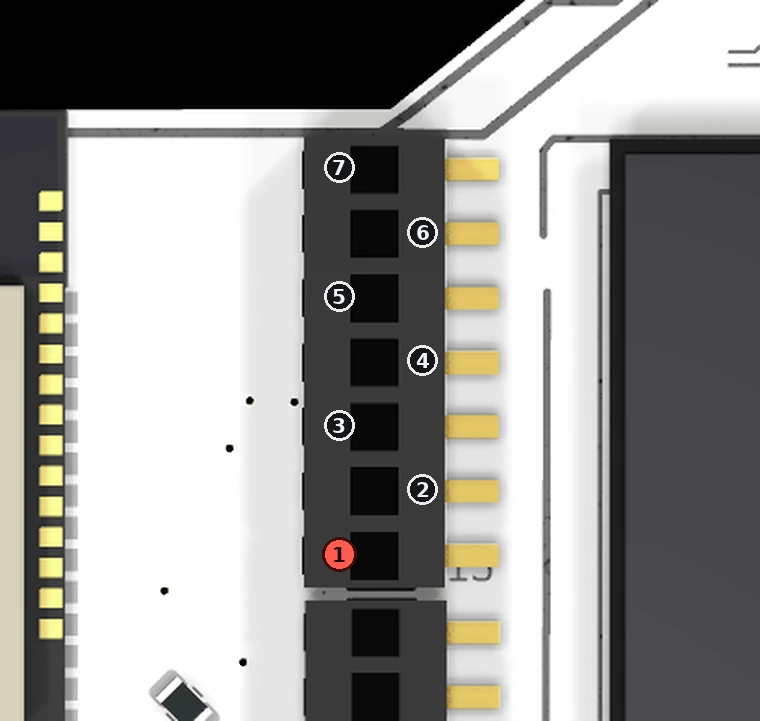
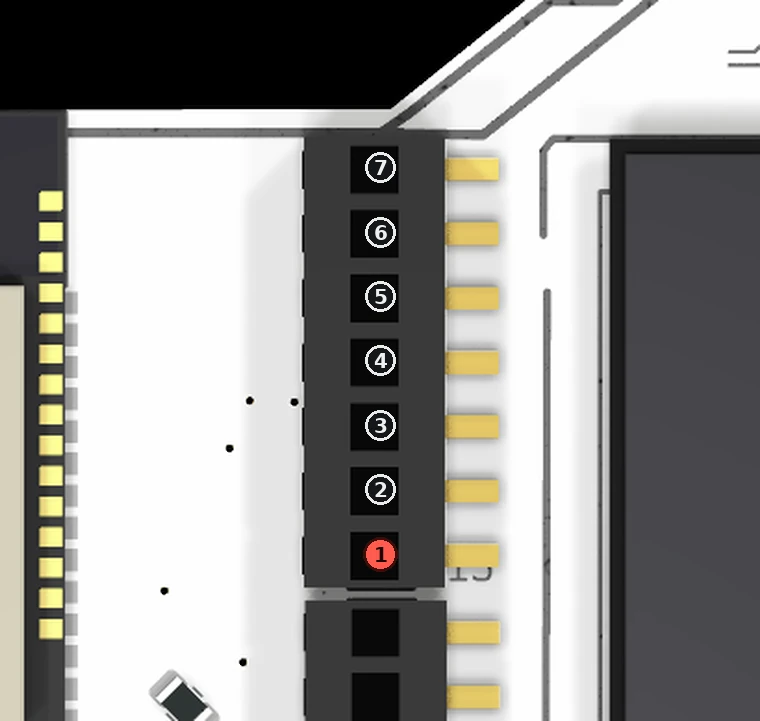
pin markers: number the socket holes rather than the staggered solder pads; anchor pin 1 to the silkscreen label; brighter matrix; bare larger thumbnails

diff --git a/compatriot/embedded.html b/compatriot/embedded.html
@@ -240,10 +240,10 @@
   <circle class="bm-pin1" data-ref="H1" cx="706" cy="621" r="7"/>
   <circle class="bm-pin1" data-ref="U2" cx="1270" cy="766" r="7"/>
   <circle class="bm-pin1" data-ref="H2" cx="666" cy="564" r="7"/>
-  <circle class="bm-pin1" data-ref="U14" cx="929" cy="538" r="7"/>
+  <circle class="bm-pin1" data-ref="U14" cx="947" cy="538" r="7"/>
   <circle class="bm-pin1" data-ref="H3" cx="585" cy="562" r="7"/>
   <circle class="bm-pin1" data-ref="U5" cx="1521" cy="766" r="7"/>
-  <circle class="bm-pin1" data-ref="U13" cx="929" cy="346" r="7"/>
+  <circle class="bm-pin1" data-ref="U13" cx="946" cy="346" r="7"/>
   <a class="bm-hot" href="#bm-U13" data-ref="U13" role="button" aria-label="Show pinout for U13 — console UART"><circle cx="1068" cy="266" r="25"/></a>
   <a class="bm-hot" href="#bm-U14" data-ref="U14" role="button" aria-label="Show pinout for U14 — SPI / I²C bus"><circle cx="1068" cy="458" r="25"/></a>
   <a class="bm-hot" href="#bm-H3" data-ref="H3" role="button" aria-label="Show pinout for H3 — STM32 SWD"><circle cx="500" cy="591" r="25"/></a>
@@ -281,7 +281,7 @@
     <figure class="bm-zoom">
       <img src="../assets/board/zoom/H1.webp" width="760" height="547" loading="lazy" decoding="async"
            alt="Close-up of H1 on the board with pin 1 marked">
-      <figcaption>Every pin is numbered. Pin&nbsp;1 is the red one.</figcaption>
+      <figcaption>Every pin is numbered; pin&nbsp;1 is red. Pin&nbsp;1 is the corner next to the <b>H1</b> label printed on the board.</figcaption>
     </figure>
     <table class="bm-pins"><thead><tr><th>Pin</th><th>Function</th><th>Net</th></tr></thead><tbody><tr class="is-pin1"><td class="bm-pn">1</td><td class="bm-fn">—</td><td class="bm-net">STM32_TX</td></tr><tr><td class="bm-pn">2</td><td class="bm-fn">—</td><td class="bm-net">RX_ESP32</td></tr><tr><td class="bm-pn">3</td><td class="bm-fn">—</td><td class="bm-net">STM32_RX</td></tr><tr><td class="bm-pn">4</td><td class="bm-fn">—</td><td class="bm-net">TX_ESP32</td></tr></tbody></table>
   </div>
@@ -293,7 +293,7 @@
     <figure class="bm-zoom">
       <img src="../assets/board/zoom/U2.webp" width="760" height="547" loading="lazy" decoding="async"
            alt="Close-up of U2 on the board with pin 1 marked">
-      <figcaption>Every pin is numbered. Pin&nbsp;1 is the red one.</figcaption>
+      <figcaption>Every pin is numbered; pin&nbsp;1 is red. Pin&nbsp;1 is the corner next to the <b>U2</b> label printed on the board.</figcaption>
     </figure>
     <table class="bm-pins"><thead><tr><th>Pin</th><th>Function</th><th>Net</th></tr></thead><tbody><tr class="is-pin1"><td class="bm-pn">1</td><td class="bm-fn">NC</td><td class="bm-net"><i>not connected</i></td></tr><tr><td class="bm-pn">2</td><td class="bm-fn">NC</td><td class="bm-net"><i>not connected</i></td></tr><tr><td class="bm-pn">3</td><td class="bm-fn">NC</td><td class="bm-net"><i>not connected</i></td></tr><tr><td class="bm-pn">4</td><td class="bm-fn">VSS</td><td class="bm-net">P,GND</td></tr><tr><td class="bm-pn">5</td><td class="bm-fn">SDA</td><td class="bm-net">I2C_SDA</td></tr><tr><td class="bm-pn">6</td><td class="bm-fn">SCL</td><td class="bm-net">I2C_SCL</td></tr><tr><td class="bm-pn">7</td><td class="bm-fn"><span class="bm-ovl">WC</span></td><td class="bm-net">EEPROM_WP</td></tr><tr><td class="bm-pn">8</td><td class="bm-fn">VCC</td><td class="bm-net">3V3_ESP32</td></tr></tbody></table>
   </div>
@@ -305,7 +305,7 @@
     <figure class="bm-zoom">
       <img src="../assets/board/zoom/H2.webp" width="760" height="545" loading="lazy" decoding="async"
            alt="Close-up of H2 on the board with pin 1 marked">
-      <figcaption>Every pin is numbered. Pin&nbsp;1 is the red one.</figcaption>
+      <figcaption>Every pin is numbered; pin&nbsp;1 is red. H2 sits between H3 and H1. Pin&nbsp;1 is the end closest to <b>H1</b>.</figcaption>
     </figure>
     <table class="bm-pins"><thead><tr><th>Pin</th><th>Function</th><th>Net</th></tr></thead><tbody><tr class="is-pin1"><td class="bm-pn">1</td><td class="bm-fn">—</td><td class="bm-net">3V3_ESP32</td></tr><tr><td class="bm-pn">2</td><td class="bm-fn">—</td><td class="bm-net">P,GND</td></tr><tr><td class="bm-pn">3</td><td class="bm-fn">—</td><td class="bm-net">JTAG_TDI</td></tr><tr><td class="bm-pn">4</td><td class="bm-fn">—</td><td class="bm-net">JTAG_TDO</td></tr><tr><td class="bm-pn">5</td><td class="bm-fn">—</td><td class="bm-net">JTAG_TMS_DAP_SWDIO</td></tr><tr><td class="bm-pn">6</td><td class="bm-fn">—</td><td class="bm-net">JTAG_TCK_DAP_SWCLK</td></tr></tbody></table>
   </div>
@@ -317,7 +317,7 @@
     <figure class="bm-zoom">
       <img src="../assets/board/zoom/U14.webp" width="760" height="722" loading="lazy" decoding="async"
            alt="Close-up of U14 on the board with pin 1 marked">
-      <figcaption>Every pin is numbered. Pin&nbsp;1 is the red one.</figcaption>
+      <figcaption>Every pin is numbered; pin&nbsp;1 is red. Pin&nbsp;1 is the end next to the <b>U14</b> label printed on the board.</figcaption>
     </figure>
     <table class="bm-pins"><thead><tr><th>Pin</th><th>Function</th><th>Net</th></tr></thead><tbody><tr class="is-pin1"><td class="bm-pn">1</td><td class="bm-fn">—</td><td class="bm-net">BOOT_ESP32</td></tr><tr><td class="bm-pn">2</td><td class="bm-fn">—</td><td class="bm-net">SPI_MOSI</td></tr><tr><td class="bm-pn">3</td><td class="bm-fn">—</td><td class="bm-net">SPI_MISO</td></tr><tr><td class="bm-pn">4</td><td class="bm-fn">—</td><td class="bm-net">SPI_CLK</td></tr><tr><td class="bm-pn">5</td><td class="bm-fn">—</td><td class="bm-net">I2C_SDA</td></tr><tr><td class="bm-pn">6</td><td class="bm-fn">—</td><td class="bm-net">I2C_SCL</td></tr><tr><td class="bm-pn">7</td><td class="bm-fn">—</td><td class="bm-net">LCD_CS</td></tr></tbody></table>
   </div>
@@ -329,7 +329,7 @@
     <figure class="bm-zoom">
       <img src="../assets/board/zoom/H3.webp" width="760" height="545" loading="lazy" decoding="async"
            alt="Close-up of H3 on the board with pin 1 marked">
-      <figcaption>Every pin is numbered. Pin&nbsp;1 is the red one.</figcaption>
+      <figcaption>Every pin is numbered; pin&nbsp;1 is red. H3 is the outermost of the three. Pin&nbsp;1 is the end closest to <b>H2</b>.</figcaption>
     </figure>
     <table class="bm-pins"><thead><tr><th>Pin</th><th>Function</th><th>Net</th></tr></thead><tbody><tr class="is-pin1"><td class="bm-pn">1</td><td class="bm-fn">—</td><td class="bm-net">SWDIO</td></tr><tr><td class="bm-pn">2</td><td class="bm-fn">—</td><td class="bm-net">SWCLK</td></tr><tr><td class="bm-pn">3</td><td class="bm-fn">—</td><td class="bm-net">NRST</td></tr><tr><td class="bm-pn">4</td><td class="bm-fn">—</td><td class="bm-net">P,GND</td></tr></tbody></table>
   </div>
@@ -341,7 +341,7 @@
     <figure class="bm-zoom">
       <img src="../assets/board/zoom/U5.webp" width="760" height="545" loading="lazy" decoding="async"
            alt="Close-up of U5 on the board with pin 1 marked">
-      <figcaption>Every pin is numbered. Pin&nbsp;1 is the red one.</figcaption>
+      <figcaption>Every pin is numbered; pin&nbsp;1 is red. Pin&nbsp;1 is the corner next to the <b>U5</b> label printed on the board.</figcaption>
     </figure>
     <table class="bm-pins"><thead><tr><th>Pin</th><th>Function</th><th>Net</th></tr></thead><tbody><tr class="is-pin1"><td class="bm-pn">1</td><td class="bm-fn"><span class="bm-ovl">CS</span></td><td class="bm-net">FLASH_CS</td></tr><tr><td class="bm-pn">2</td><td class="bm-fn">DO (IO1)</td><td class="bm-net">SPI_MISO</td></tr><tr><td class="bm-pn">3</td><td class="bm-fn"><span class="bm-ovl">WP</span> (IO2)</td><td class="bm-net"><i>not connected</i></td></tr><tr><td class="bm-pn">4</td><td class="bm-fn">GND</td><td class="bm-net">P,GND</td></tr><tr><td class="bm-pn">5</td><td class="bm-fn">DI (IO0)</td><td class="bm-net">SPI_MOSI</td></tr><tr><td class="bm-pn">6</td><td class="bm-fn">CLK</td><td class="bm-net">SPI_CLK</td></tr><tr><td class="bm-pn">7</td><td class="bm-fn"><span class="bm-ovl">HOLD</span> / <span class="bm-ovl">RESET</span> (IO3)</td><td class="bm-net"><i>not connected</i></td></tr><tr><td class="bm-pn">8</td><td class="bm-fn">VCC</td><td class="bm-net">3V3_ESP32</td></tr></tbody></table>
   </div>
@@ -353,7 +353,7 @@
     <figure class="bm-zoom">
       <img src="../assets/board/zoom/U13.webp" width="760" height="721" loading="lazy" decoding="async"
            alt="Close-up of U13 on the board with pin 1 marked">
-      <figcaption>Every pin is numbered. Pin&nbsp;1 is the red one.</figcaption>
+      <figcaption>Every pin is numbered; pin&nbsp;1 is red. Pin&nbsp;1 is the end next to the <b>U13</b> label printed on the board.</figcaption>
     </figure>
     <table class="bm-pins"><thead><tr><th>Pin</th><th>Function</th><th>Net</th></tr></thead><tbody><tr class="is-pin1"><td class="bm-pn">1</td><td class="bm-fn">—</td><td class="bm-net"><i>not connected</i></td></tr><tr><td class="bm-pn">2</td><td class="bm-fn">—</td><td class="bm-net">GPIO15</td></tr><tr><td class="bm-pn">3</td><td class="bm-fn">—</td><td class="bm-net">RX_ESP32</td></tr><tr><td class="bm-pn">4</td><td class="bm-fn">—</td><td class="bm-net">TX_ESP32</td></tr><tr><td class="bm-pn">5</td><td class="bm-fn">—</td><td class="bm-net">MOD2_CS</td></tr><tr><td class="bm-pn">6</td><td class="bm-fn">—</td><td class="bm-net">MOD1_CS</td></tr><tr><td class="bm-pn">7</td><td class="bm-fn">—</td><td class="bm-net">P,GND</td></tr></tbody></table>
   </div>

diff --git a/assets/css/site.css b/assets/css/site.css
@@ -659,13 +659,9 @@ body > footer { position: relative; z-index: 1; }
 .index-table tr[data-href]:focus-within td.ix-name a { color: var(--accent-text); }
 .index-table tr[data-href]:focus-within td.ix-arrow { opacity: 1; transform: translateX(0); color: var(--accent-text); }
 
-/* a consistent plate behind thumbnails of differing shapes */
-.index-table .ix-thumb img {
-  background: var(--bg-inset);
-  border: 1px solid var(--border);
-  border-radius: 6px;
-  padding: 8px;
-}
+/* thumbnails sit bare on the page — no frame */
+.index-table .ix-thumb img { width: 160px; height: 160px; }
+@media (max-width: 760px) { .index-table .ix-thumb img { width: 104px; height: 104px; } }
 
 /* close-up shot inside a challenge's Connection section */
 .diagram.pinshot { margin: 10px 0 18px; }

diff --git a/assets/js/matrix-bg.js b/assets/js/matrix-bg.js
@@ -34,7 +34,7 @@
       if (Math.random() > 0.86) continue;          // leave gaps: not every column every frame
       var ch = GLYPHS[(Math.random() * GLYPHS.length) | 0];
       var x = i * FS * GAP, y = drops[i] * FS;
-      ctx.fillStyle = Math.random() < 0.05 ? 'rgba(160,240,186,0.40)' : 'rgba(53,193,94,0.17)';
+      ctx.fillStyle = Math.random() < 0.05 ? 'rgba(170,245,195,0.52)' : 'rgba(53,193,94,0.26)';
       ctx.fillText(ch, x, y);
       if (y > h && Math.random() > 0.982) drops[i] = Math.floor(Math.random() * -30);
       drops[i]++;
